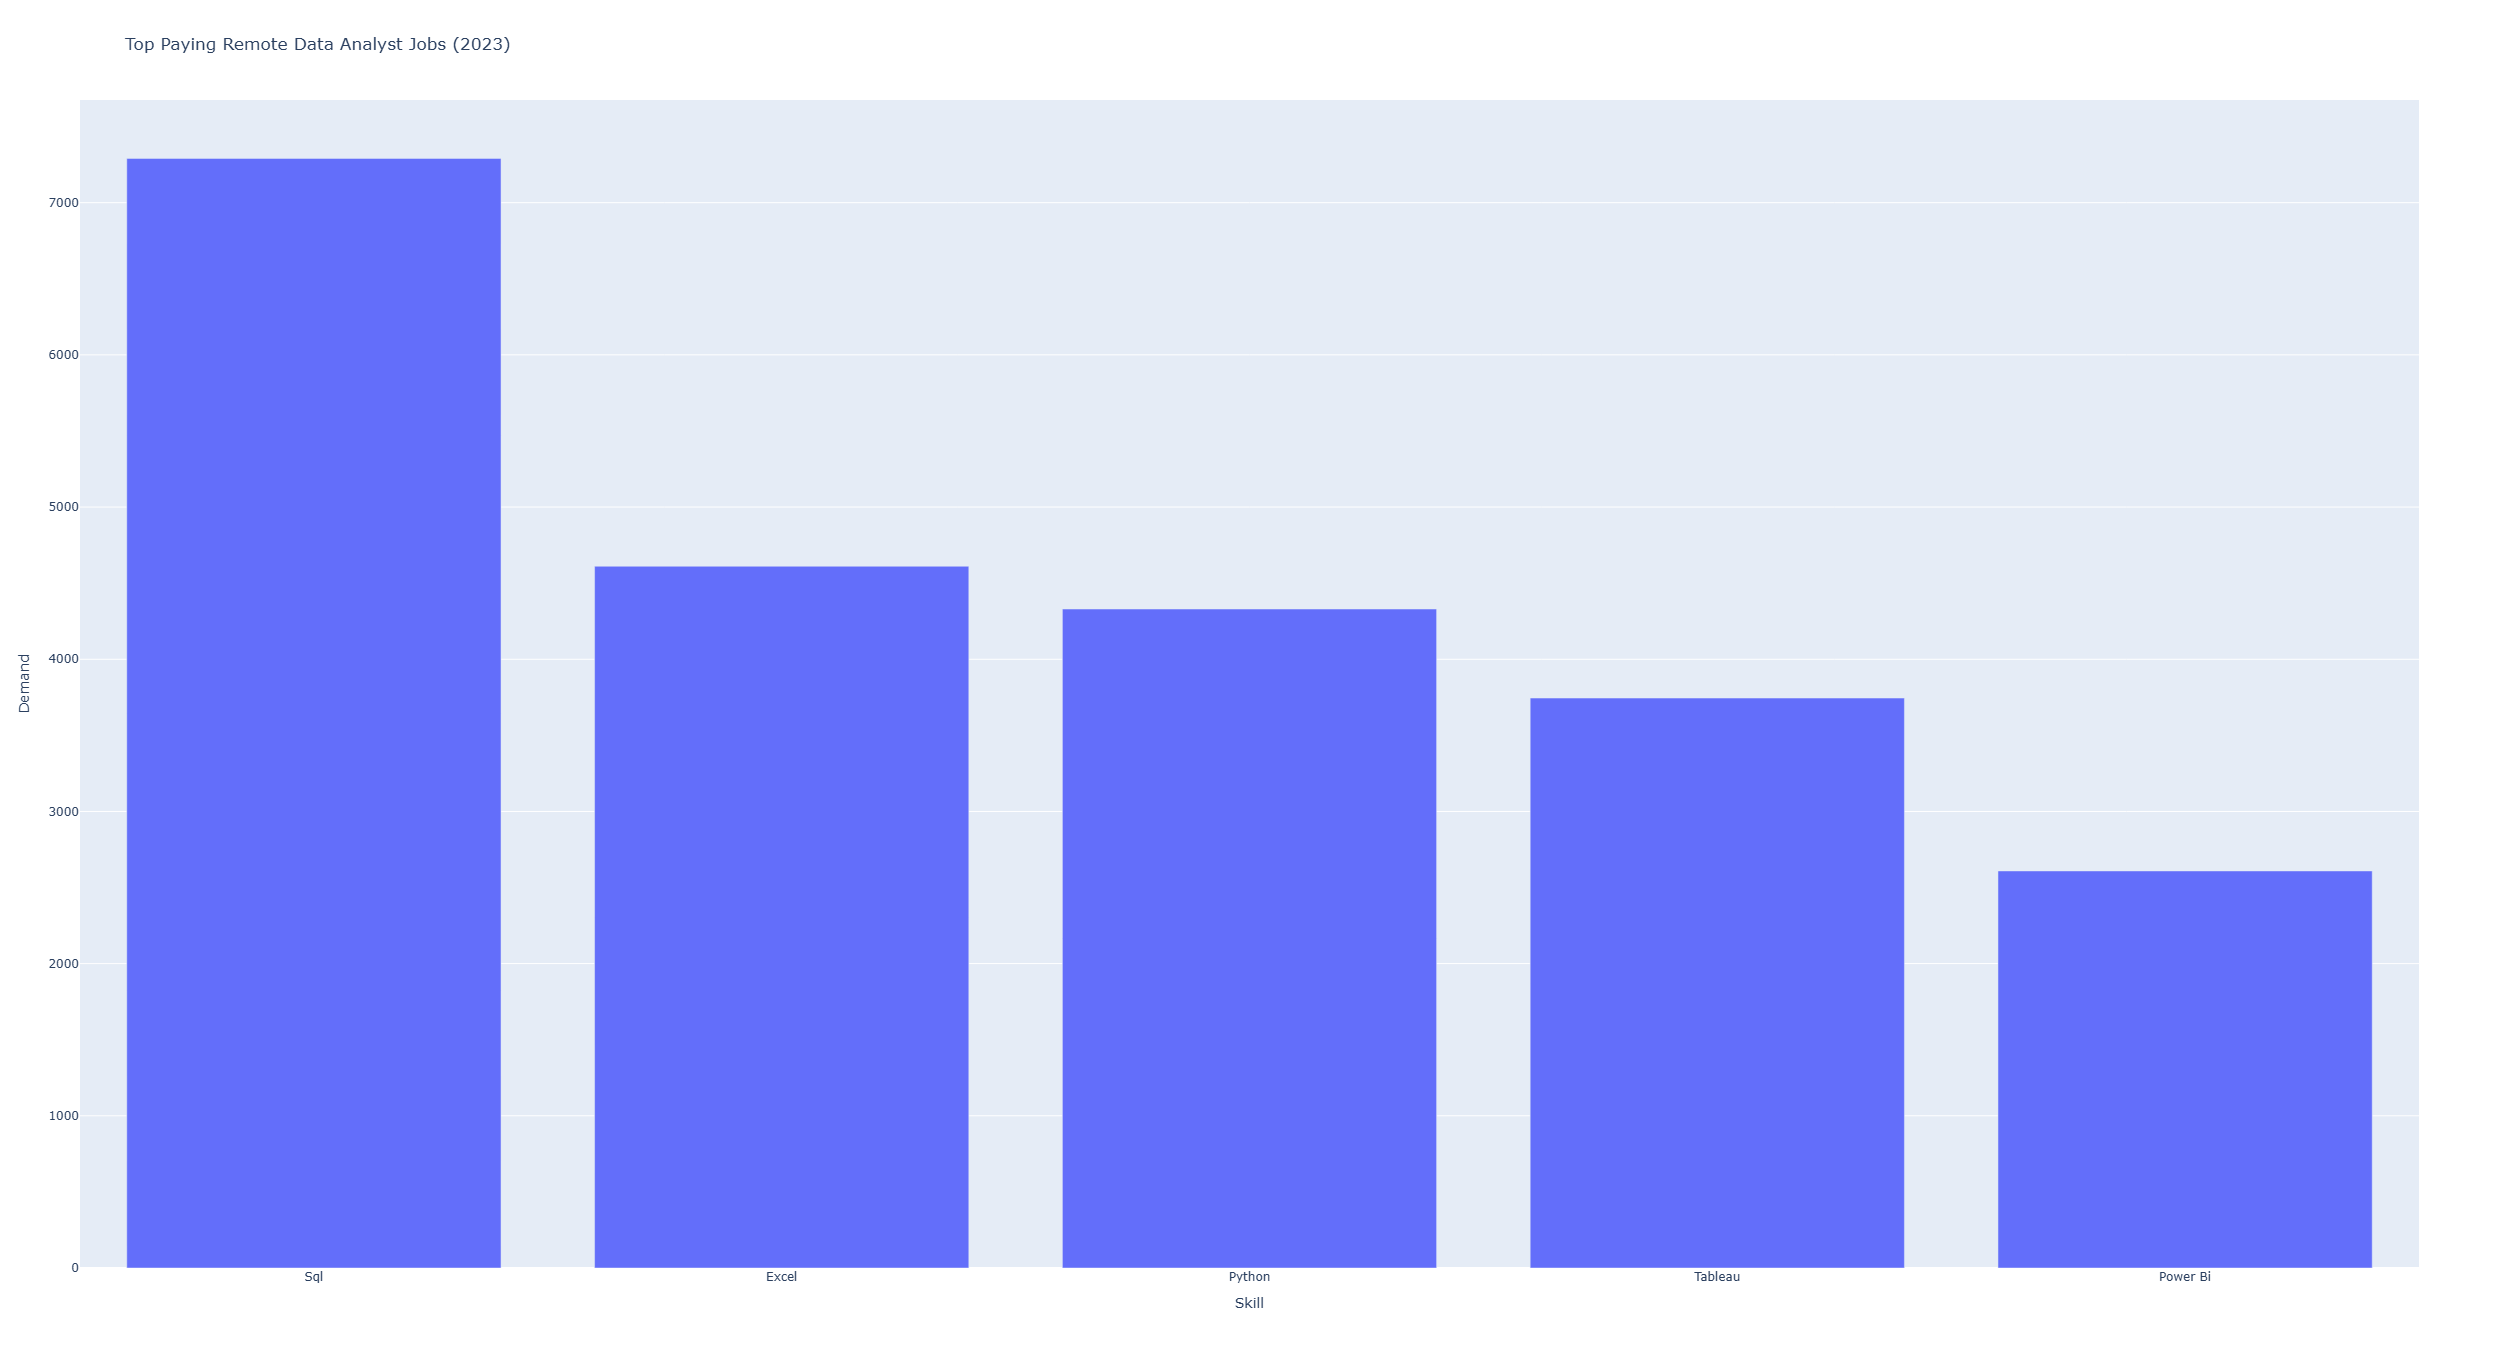
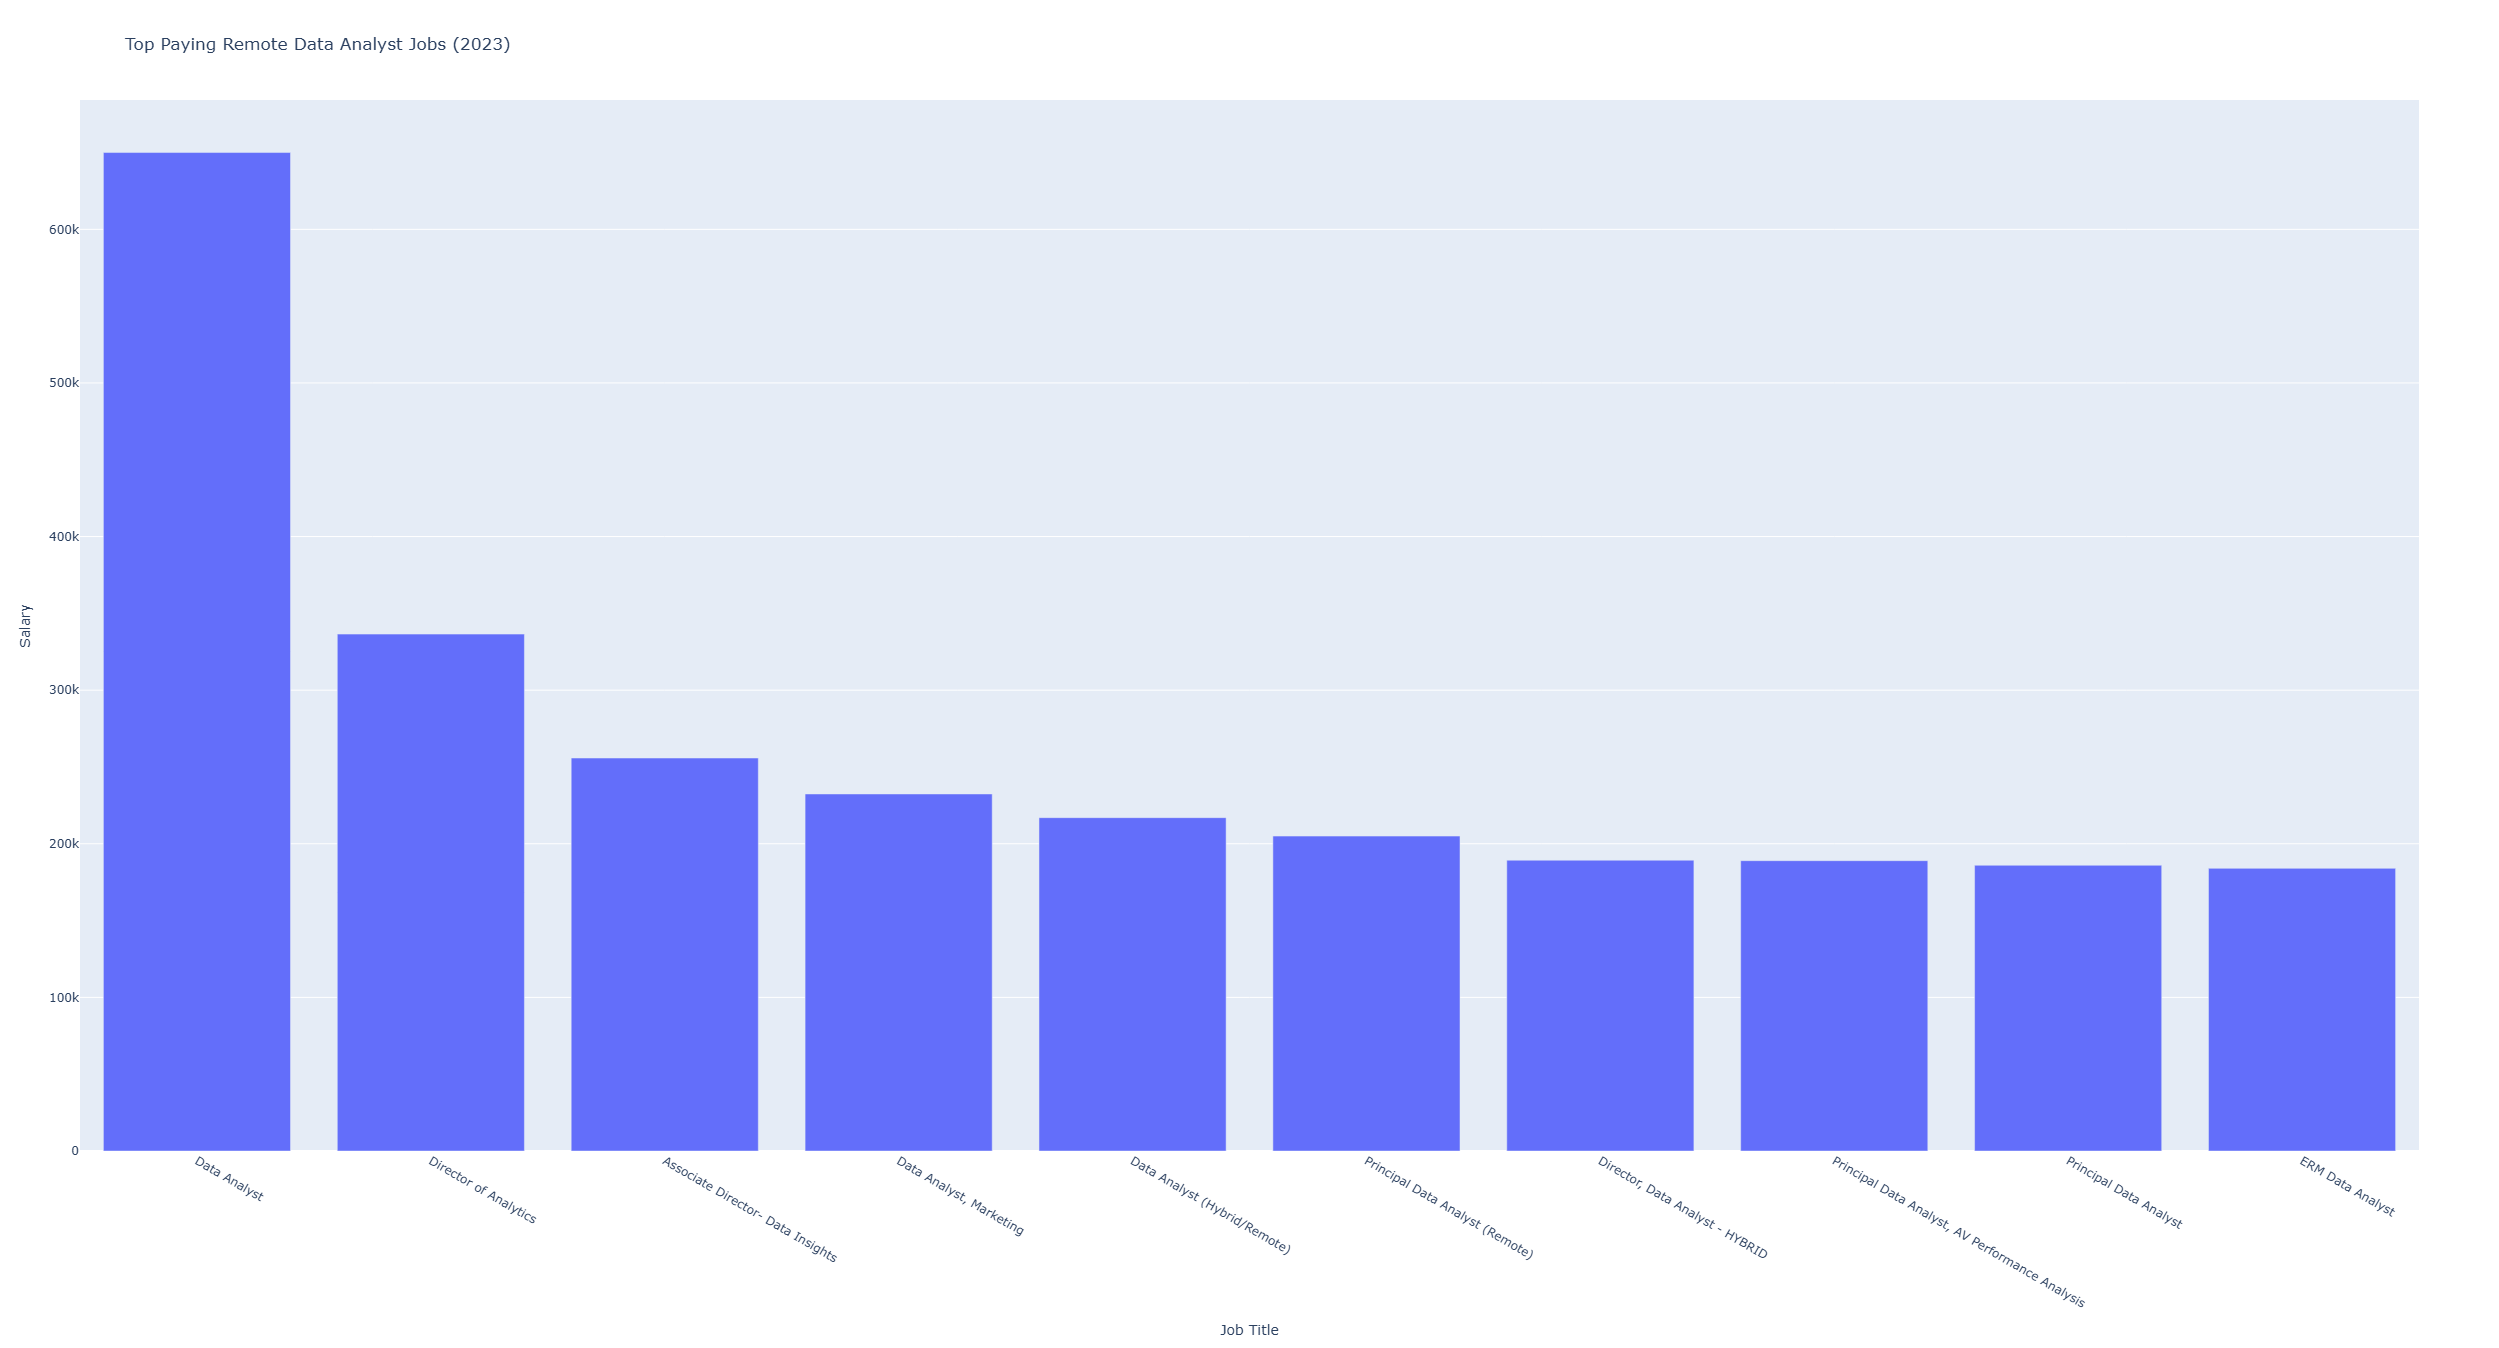
plot update

Changed region(s): [[0.0312, 0.0935, 0.9676, 0.9659]]

diff --git a/README.md b/README.md
@@ -45,10 +45,13 @@ Each query is designed to provide a different perspective:
 
 - `1_top_paying_jobs.sql` exhibits the highest-paying remote data analyst jobs; they are the best starting point for salary-focused jobs.
 - `2_top_paying_jobs_skills.sql` demonstrates the skills required for top-paying roles and shows that premium jobs still require a well-rounded technical toolkit.
-![plot_1](/plots/plot_1.png)
+![plot_1](https://raw.githubusercontent.com/langstonstewart/sql_project_data_job_analysis/refs/heads/main/plots/plot_1.png)
 - `3_in_demand_skills.sql` identifies skills that keep appearing across remote analyst postings.
+![plot_3](https://raw.githubusercontent.com/langstonstewart/sql_project_data_job_analysis/refs/heads/main/plots/plot_3.png)
 - `4_top_paying_skills.sql` reveals which skills tend to be associated with higher salaries.
+![plot_4](https://raw.githubusercontent.com/langstonstewart/sql_project_data_job_analysis/refs/heads/main/plots/plot_4.png)
 - `5_most_optimal_skills.sql` surfaces skills that balance both demand and salary impact, making them especially useful for learning and career planning.
+![plot_5](https://raw.githubusercontent.com/langstonstewart/sql_project_data_job_analysis/refs/heads/main/plots/plot_5.png)
 
 # How to Use
 
